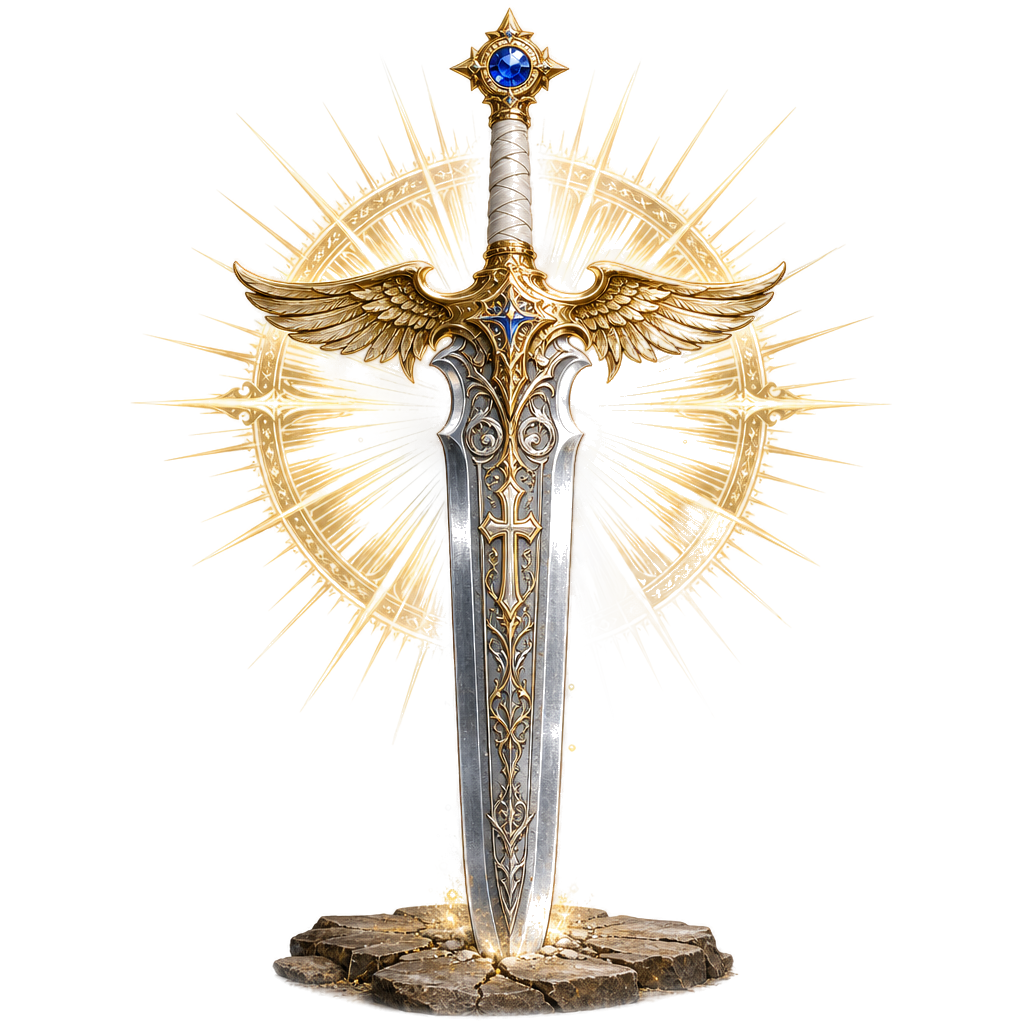
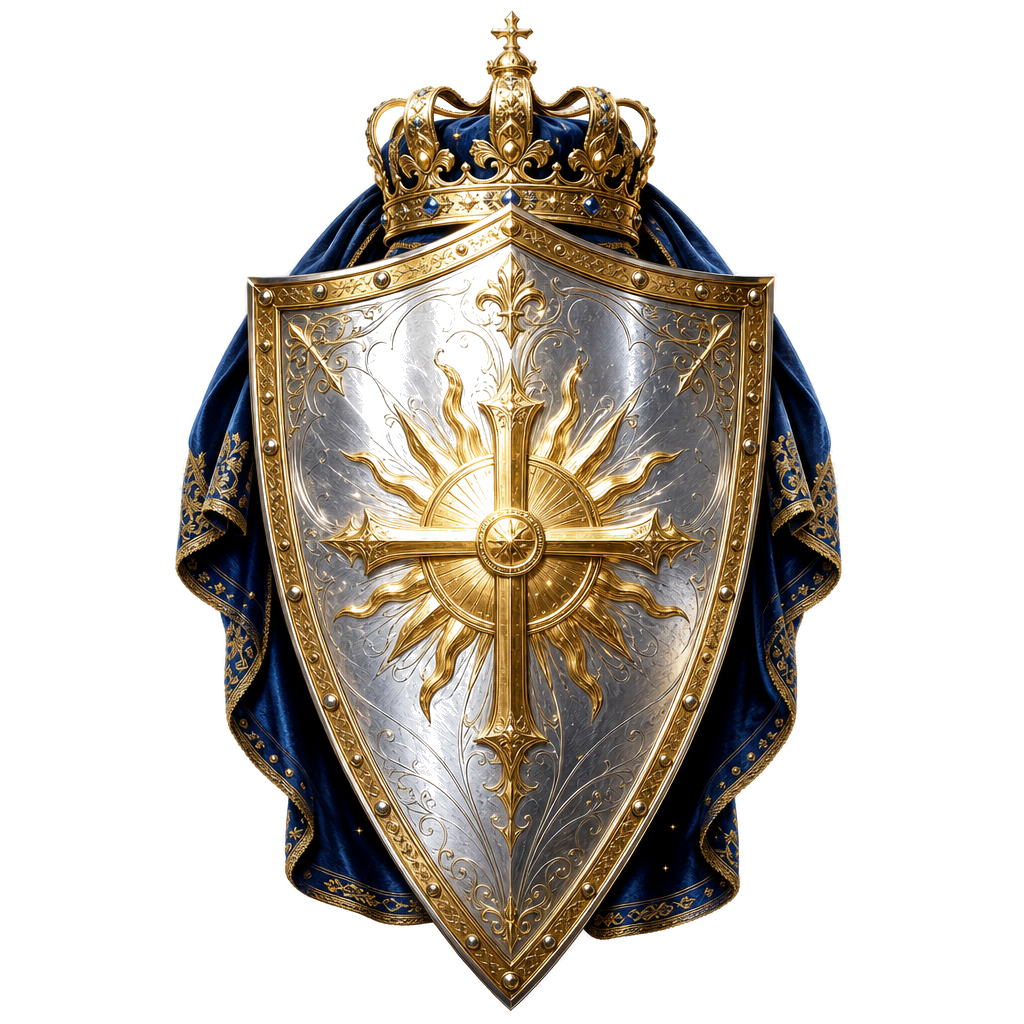
feat(combat): wire AI-generated class PNGs into combat WebApp + redo paladino/druida v3
USER REQUEST 2026-05-16:
1. refazer paladino + druida (3ª iteração)
2. implementar PNGs nos ícones do combate (substituir SVG sprites)

PALADINO v3: heraldic CHIVALRIC KITE SHIELD com sun-cross emblem,
royal crown no topo, dark blue velvet backdrop, sacred halo dourado
(antes era greatsword com winged crossguard — user pediu refazer).

DRUIDA v3: OAK LEAF + ACORN emblem central com ivy circle + golden
sunlight (antes era staff com antlers — user pediu refazer).

COMBAT WEBAPP WIRING:
- Novo helper _combatPortraitHTML(iconId) em combate.html: retorna
  <img src="../shared/img/combat/{slug}.png"> pra ícones com PNG
  disponível (12 classes + boss + inimigo + 6 invocações = 20 slugs),
  fallback pro SVG sprite <use href="#ic-X"/> via onerror.
- Map COMBAT_PNG_AVAILABLE controla quais slugs usam PNG.
- Normaliza ic-find_steed → find-steed.png (sprite usa _, PNG usa -).
- Detecta file:// pra mode LOCAL master simulator (path ../valdoria-webapp/).
- Substituído inner += '<svg><use href=...></svg>' na linha 15962
  por inner += _combatPortraitHTML(iconId).
- Novo CSS .c-portrait-img: object-fit:contain + mesma drop-shadow
  colorida do SVG.

Synced de simuladores/combate.html master.

diff --git a/combat2/combate.html b/combat2/combate.html
@@ -1,5 +1,5 @@
 <!DOCTYPE html>
-<!-- SYNCED FROM simuladores/combate.html AT 2026-05-16T22:40:53Z — do not edit directly, edit source -->
+<!-- SYNCED FROM simuladores/combate.html AT 2026-05-16T22:46:32Z — do not edit directly, edit source -->
 
 
 <!--
@@ -2037,6 +2037,17 @@ body.sim-paused-bg .sim-skip-confirm-overlay, body.sim-paused-bg .sim-skip-confi
 }
 .cell.v8-card .c-portrait svg {
   width: 100%; height: 100%;
+  filter:
+    drop-shadow(0 0 3px color-mix(in srgb, var(--card-accent, #c4953a) 70%, transparent))
+    drop-shadow(0 1px 2px rgba(0,0,0,0.85));
+  position: static; z-index: auto;
+}
+/* 2026-05-16: c-portrait-img (PNG AI variant) — herda dimensões do contêiner
+   .c-portrait, object-fit:contain pra preservar arte sem crop, mesma drop-shadow
+   colorida que o SVG (filtro funciona em <img> também). */
+.cell.v8-card .c-portrait img.c-portrait-img {
+  width: 100%; height: 100%;
+  object-fit: contain;
   filter:
     drop-shadow(0 0 3px color-mix(in srgb, var(--card-accent, #c4953a) 70%, transparent))
     drop-shadow(0 1px 2px rgba(0,0,0,0.85));
@@ -15792,6 +15803,38 @@ function _heraldicIconOf(u, utype) {
     if (utype === 'ally' || (u.t === 'a')) return 'ic-inimigo';
     return null;
 }
+/* 2026-05-16: Combat portrait helper — returns PNG (AI-generated) when
+   available, SVG sprite fallback otherwise.
+   PNGs live in valdoria-webapp/shared/img/combat/{slug}.png — 20 generated:
+     12 classes + 2 combat (inimigo/boss) + 6 invocações.
+   iconId format: 'ic-mago', 'ic-spiritual-weapon', etc — slug strips 'ic-'.
+   Invocações use hyphens in PNG filenames (find-steed.png) but the SVG IDs
+   use underscores (ic-find_steed) — normalize via slug.replace(/_/g, '-'). */
+var COMBAT_PNG_AVAILABLE = {
+    'mago': 1, 'clerigo': 1, 'barbaro': 1, 'ladino': 1, 'guerreiro': 1,
+    'patrulheiro': 1, 'paladino': 1, 'bardo': 1, 'druida': 1, 'monge': 1,
+    'feiticeiro': 1, 'bruxo': 1,
+    'inimigo': 1, 'boss': 1,
+    'spiritual-weapon': 1, 'summon': 1, 'familiar': 1, 'sprite': 1,
+    'find-steed': 1, 'animal-companion': 1
+};
+function _combatPortraitHTML(iconId) {
+    if (!iconId) return '';
+    var slug = String(iconId).replace(/^ic-/, '').replace(/_/g, '-');
+    if (COMBAT_PNG_AVAILABLE[slug]) {
+        var base = '/shared/img/combat/';
+        // file:// local fallback for master simulator
+        var loc = (typeof location !== 'undefined') ? location.href : '';
+        if (loc.indexOf('file://') === 0) {
+            base = '../valdoria-webapp/shared/img/combat/';
+        }
+        return '<img class="c-portrait-img" src="' + base + slug + '.png" ' +
+               'alt="" loading="lazy" ' +
+               'onerror="this.onerror=null;this.outerHTML=\'<svg viewBox=\\\'0 0 120 120\\\' aria-hidden=\\\'true\\\'><use href=\\\'#' + iconId + '\\\'/></svg>\'">';
+    }
+    return '<svg viewBox="0 0 120 120" aria-hidden="true"><use href="#' + iconId + '"/></svg>';
+}
+
 function _heraldicClsSlugOf(u, utype) {
     if (!u) return '';
     if (utype === 'enemy') return u.isBoss ? 'cls-boss' : 'cls-inimigo';
@@ -15961,7 +16004,7 @@ function buildCellInnerHTML(u, utype, opt, uid) {
         /* ======= V8 heráldico LITERAL (card-icons-heraldic.html): ======= */
         /*  c-name → c-portrait (crest SVG no canto) → c-class-tag (com borda dourada) */
         inner += '<div class="c-name">' + escHtml(u.n || u.cls || '—') + '</div>';
-        inner += '<div class="c-portrait"><svg viewBox="0 0 120 120" aria-hidden="true"><use href="#' + iconId + '"/></svg></div>';
+        inner += '<div class="c-portrait">' + _combatPortraitHTML(iconId) + '</div>';
         inner += '<div class="c-class-tag">' + escHtml(_v8ClassTagOf(u, utype)) + '</div>';
     } else {
         /* Fallback legado (unidades sem classe mapeada): unit-row simples */
